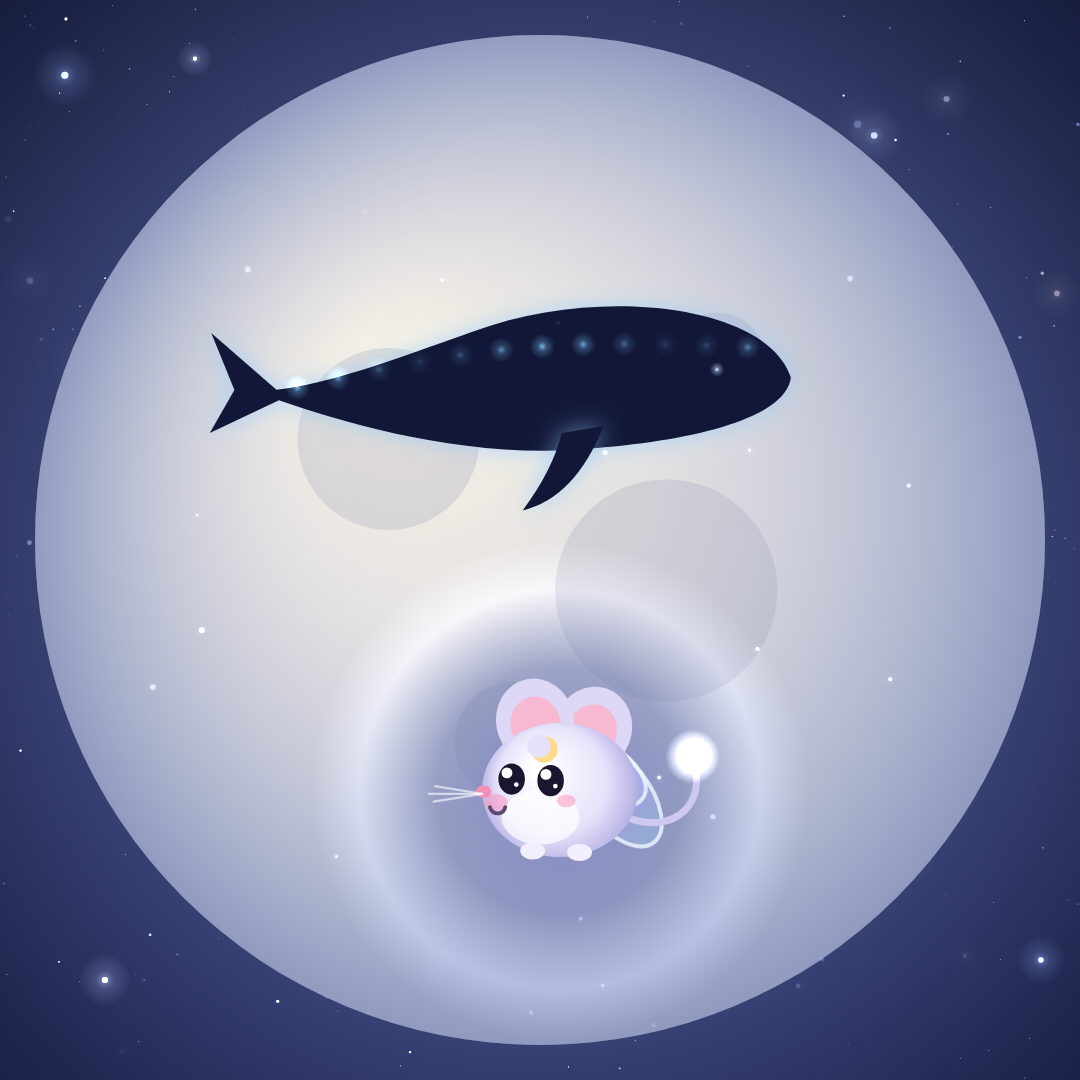
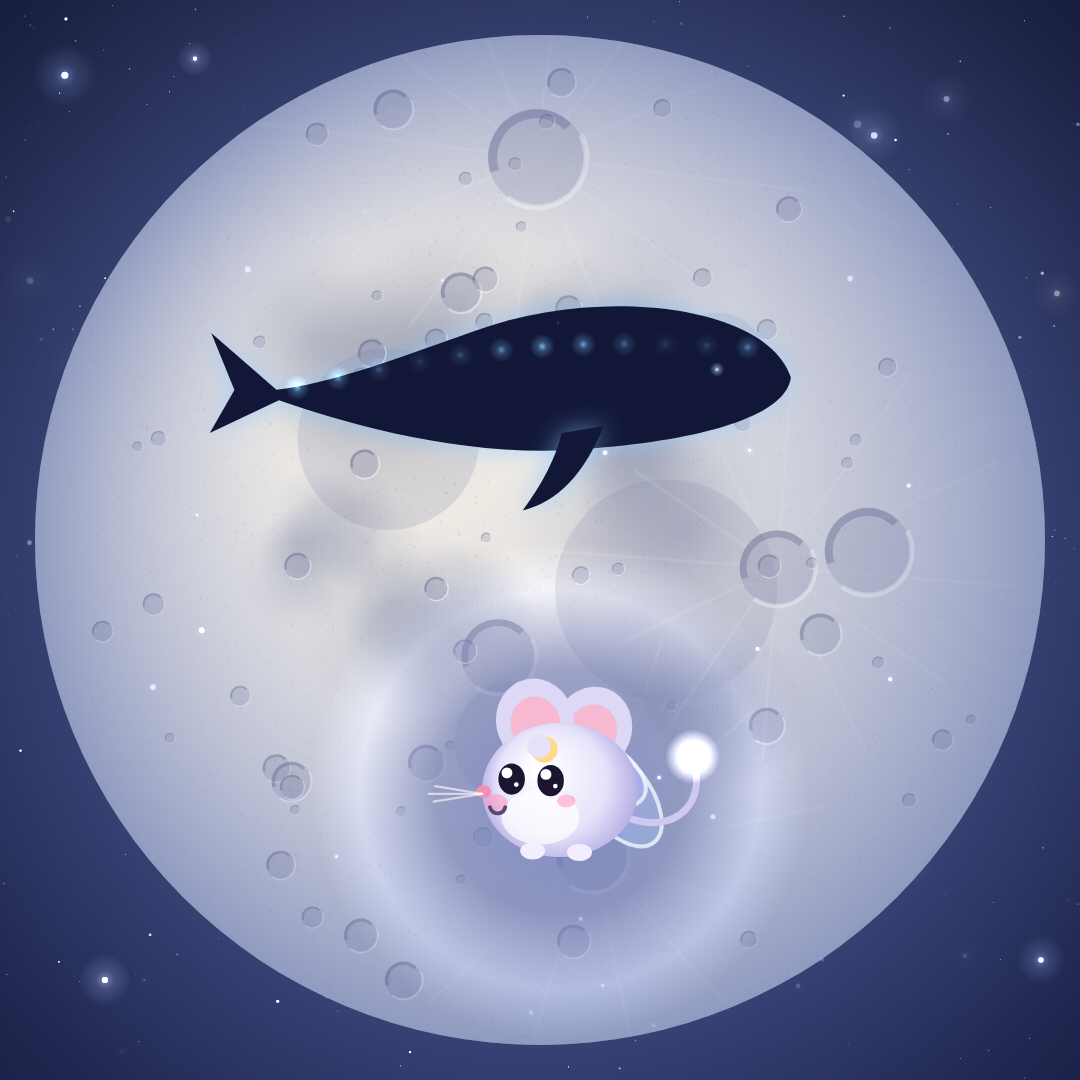
Leben in Valdoria: Profilbild mit Mondstruktur (Maria, Krater, Strahlenkrater, Körnung)
Claude-Session: https://claude.ai/code/session_01McNdgartso3nbaZ6x41dY1

diff --git a/stories/branding/profilbild_mond.js b/stories/branding/profilbild_mond.js
@@ -17,6 +17,39 @@ const path = require('path'), fs = require('fs');
     c.save(); c.globalCompositeOperation = 'lighter'; glow(540, 960, 760, 'rgba(170,195,255,A)', 0.55); c.restore();
     // the full moon filling the frame
     moon(540, 960, 505);
+    // lunar surface: dark maria, many craters with lit rims, fine grain (all clipped to the disc)
+    c.save(); c.beginPath(); c.arc(540, 960, 505, 0, 7); c.clip();
+    const R = (i, k) => rnd(i, 1300 + k);
+    // maria: soft irregular grey-blue seas made of overlapping blobs
+    [[400, 800, 170], [600, 760, 120], [690, 900, 150], [450, 1050, 130], [700, 1120, 110], [330, 960, 90]].forEach(([mx, my, mr], m) => {
+      for (let j = 0; j < 9; j++) {
+        const x = mx + (R(m * 20 + j, 1) - 0.5) * mr, y = my + (R(m * 20 + j, 2) - 0.5) * mr * 0.8, r = mr * (0.35 + 0.45 * R(m * 20 + j, 3));
+        const g = c.createRadialGradient(x, y, 0, x, y, r);
+        g.addColorStop(0, 'rgba(120,128,160,0.20)'); g.addColorStop(1, 'rgba(120,128,160,0)');
+        c.fillStyle = g; c.beginPath(); c.arc(x, y, r, 0, 7); c.fill();
+      }
+    });
+    // craters: dark floor, shadowed upper-left wall, bright lower-right rim
+    for (let i = 0; i < 70; i++) {
+      const a = R(i, 4) * 6.283, d = Math.sqrt(R(i, 5)) * 470, x = 540 + Math.cos(a) * d, y = 960 + Math.sin(a) * d;
+      const r = i < 6 ? 34 + 30 * R(i, 6) : 5 + 16 * R(i, 6) ** 2;
+      c.fillStyle = 'rgba(110,116,150,0.22)'; c.beginPath(); c.arc(x, y, r, 0, 7); c.fill();
+      c.strokeStyle = 'rgba(80,86,125,0.35)'; c.lineWidth = Math.max(1.2, r * 0.18);
+      c.beginPath(); c.arc(x, y, r * 0.9, Math.PI * 0.9, Math.PI * 1.75); c.stroke();
+      c.strokeStyle = 'rgba(255,255,255,0.45)'; c.lineWidth = Math.max(1, r * 0.12);
+      c.beginPath(); c.arc(x, y, r * 1.02, Math.PI * -0.15, Math.PI * 0.7); c.stroke();
+      if (i < 3) { // ray craters
+        c.strokeStyle = 'rgba(255,255,255,0.10)'; c.lineWidth = 3;
+        for (let k = 0; k < 12; k++) { const b = k / 12 * 6.283 + R(i, 7); c.beginPath(); c.moveTo(x + Math.cos(b) * r, y + Math.sin(b) * r); c.lineTo(x + Math.cos(b) * r * (4 + 3 * R(i * 12 + k, 8)), y + Math.sin(b) * r * (4 + 3 * R(i * 12 + k, 8))); c.stroke(); }
+      }
+    }
+    // fine grain
+    for (let i = 0; i < 2600; i++) {
+      const a = R(i, 9) * 6.283, d = Math.sqrt(R(i, 10)) * 505;
+      c.fillStyle = R(i, 11) > 0.5 ? 'rgba(90,96,130,0.10)' : 'rgba(255,255,255,0.10)';
+      c.fillRect(540 + Math.cos(a) * d, 960 + Math.sin(a) * d, 2, 2);
+    }
+    c.restore();
     // gentle blue shading so the white mouse stands out
     const sh = c.createRadialGradient(470, 860, 120, 540, 960, 520);
     sh.addColorStop(0, 'rgba(255,255,255,0)'); sh.addColorStop(1, 'rgba(60,80,150,0.38)');
